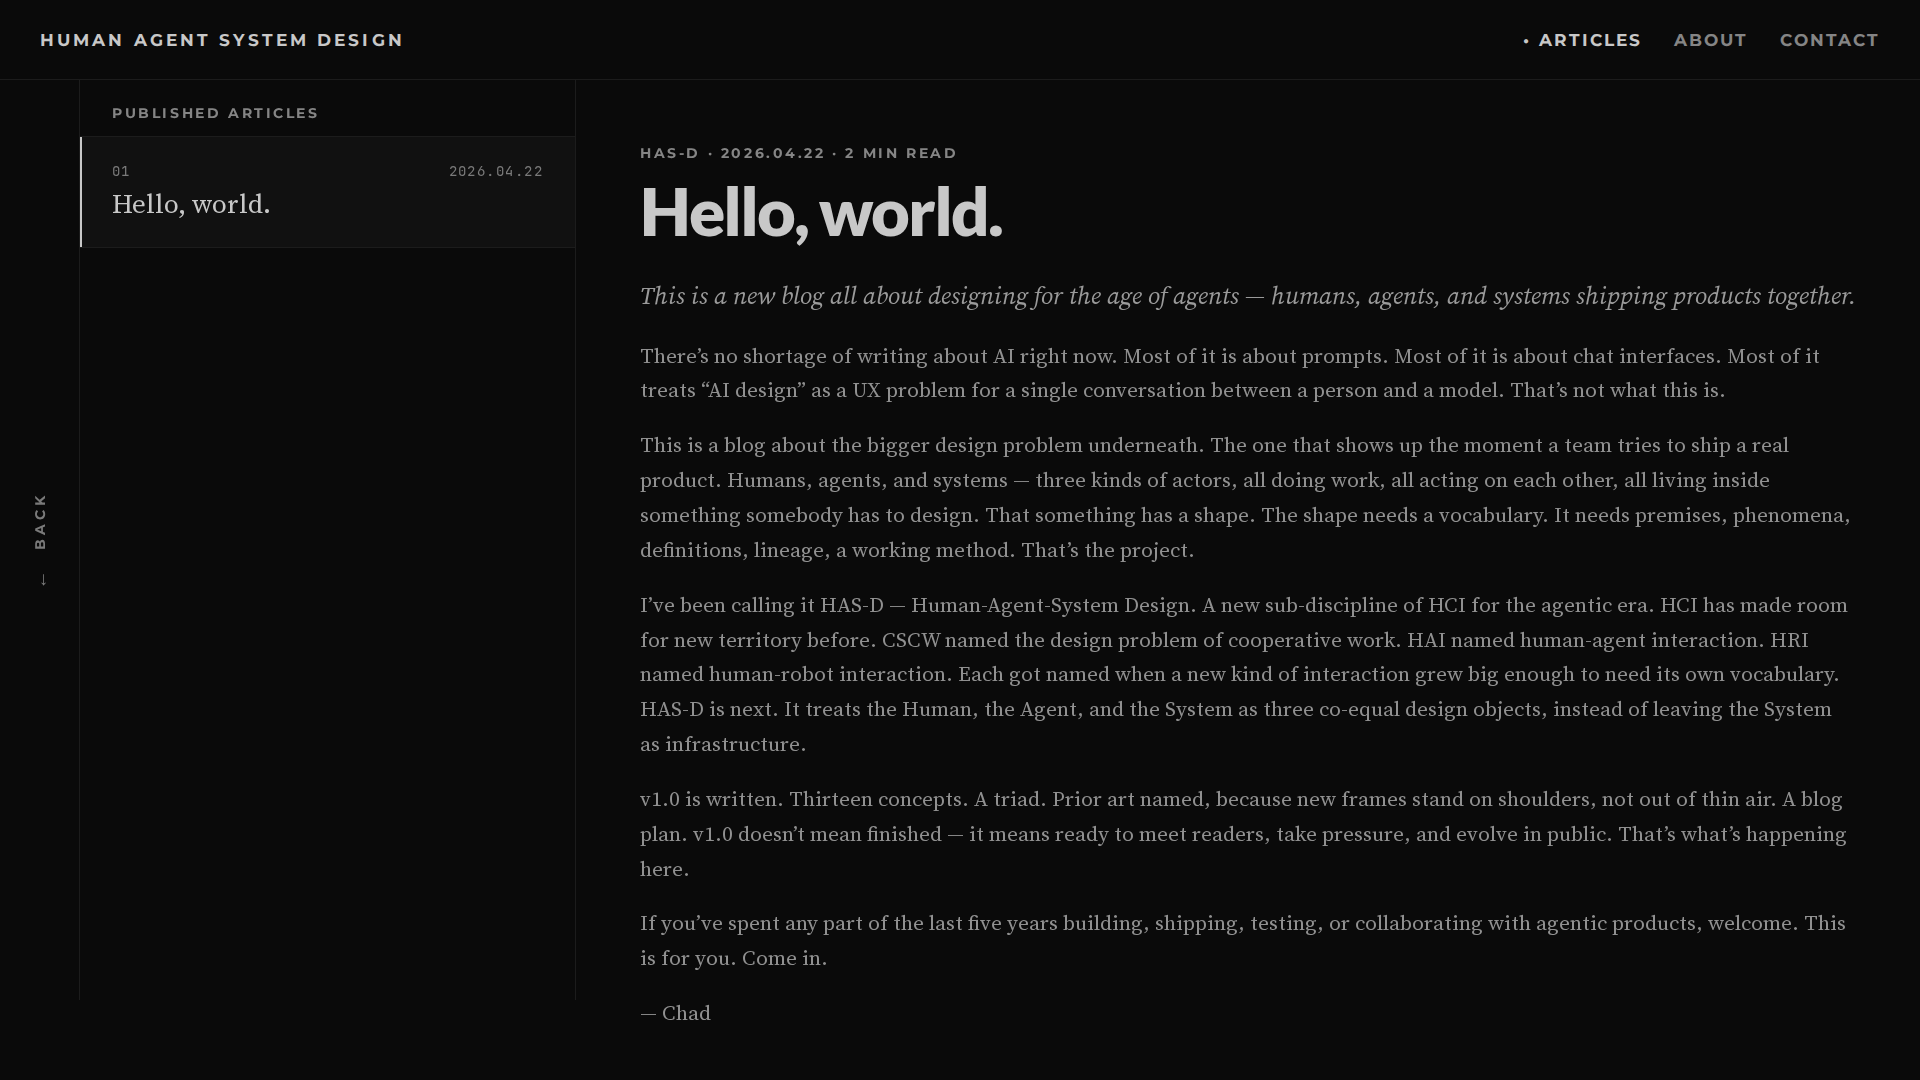
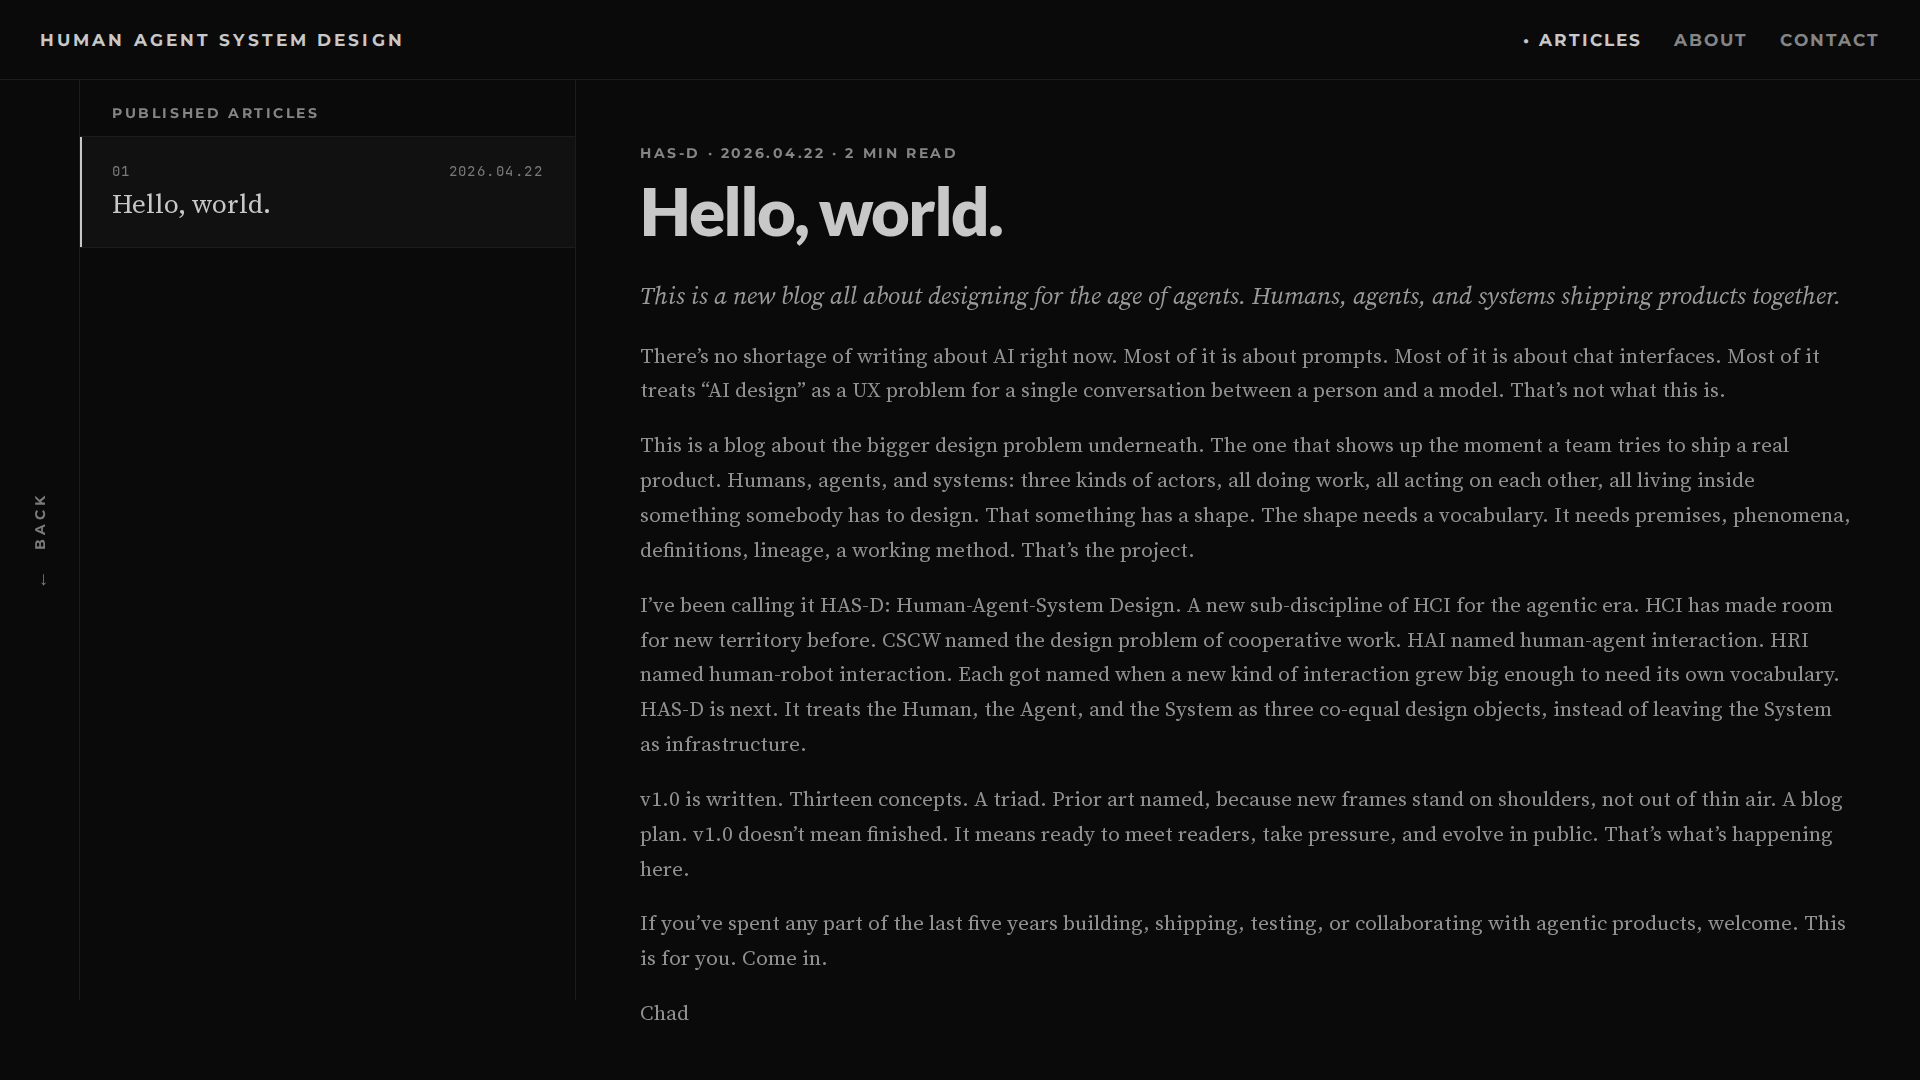
chore(copy): remove em dashes across user-visible copy
- hello world post: em dashes replaced with periods and colons,
  preserving the punchy rhythm. Sign-off is just "Chad".
- default description + about/contact page titles/ledes cleaned up.
- CSS comment em dashes swapped for middle dots or periods.

No behavior changes. Build + typecheck clean. ILI-692 verify spec still
passes (hello world rendering, no-placeholder guard, OG tags).

diff --git a/src/styles/homepage.css b/src/styles/homepage.css
@@ -61,7 +61,7 @@ button { font: inherit; color: inherit; background: none; border: none; cursor: 
   flex: 1 1 auto;
   min-height: 0;
   /* Cap height when closed so residual article content can't stretch the
-     grid row — otherwise hero-inner (height:100%, justify-content:center)
+     grid row. Otherwise hero-inner (height:100%, justify-content:center)
      re-centers into a huge column and appears to slide off-page on close. */
   height: calc(100vh - 160px);
 }
@@ -366,7 +366,7 @@ button { font: inherit; color: inherit; background: none; border: none; cursor: 
 }
 
 /* ═══════════════════════════════════════════════
-   MOBILE — below 900px the grid collapses to a
+   MOBILE. Below 900px the grid collapses to a
    single stacked column and the article reader
    becomes a full-screen overlay.
    ═══════════════════════════════════════════════ */
@@ -401,7 +401,7 @@ button { font: inherit; color: inherit; background: none; border: none; cursor: 
   }
   .stage.open { grid-template-columns: none; }
 
-  /* Reset the desktop document-scroll rules — mobile already page-scrolls */
+  /* Reset the desktop document-scroll rules. Mobile already page-scrolls */
   .stage.open .col-hero,
   .stage.open .col-list {
     position: static;

diff --git a/src/styles/fonts.css b/src/styles/fonts.css
@@ -1,4 +1,4 @@
-/* ── Source Serif 4 — prose body ───────────────────────────── */
+/* ── Source Serif 4 · prose body ───────────────────────────── */
 
 @font-face {
   font-family: 'Source Serif 4';
@@ -32,7 +32,7 @@
   font-display: swap;
 }
 
-/* ── Lato Black — titles ──────────────────────────────────── */
+/* ── Lato Black · titles ──────────────────────────────────── */
 
 @font-face {
   font-family: 'Lato';
@@ -42,7 +42,7 @@
   font-display: swap;
 }
 
-/* ── Montserrat — eyebrows + subtitles ────────────────────── */
+/* ── Montserrat · eyebrows + subtitles ────────────────────── */
 
 @font-face {
   font-family: 'Montserrat';
@@ -60,7 +60,7 @@
   font-display: swap;
 }
 
-/* ── JetBrains Mono — code + system labels ────────────────── */
+/* ── JetBrains Mono · code + system labels ────────────────── */
 
 @font-face {
   font-family: 'JetBrains Mono';

diff --git a/src/content/articles/hello-world.md b/src/content/articles/hello-world.md
@@ -1,19 +1,19 @@
 ---
 title: "Hello, world."
 date: 2026-04-22
-description: "This is a new blog all about designing for the age of agents — humans, agents, and systems shipping products together."
+description: "This is a new blog all about designing for the age of agents. Humans, agents, and systems shipping products together."
 tags: ["HAS-D"]
 draft: false
 ---
 
 There's no shortage of writing about AI right now. Most of it is about prompts. Most of it is about chat interfaces. Most of it treats "AI design" as a UX problem for a single conversation between a person and a model. That's not what this is.
 
-This is a blog about the bigger design problem underneath. The one that shows up the moment a team tries to ship a real product. Humans, agents, and systems — three kinds of actors, all doing work, all acting on each other, all living inside something somebody has to design. That something has a shape. The shape needs a vocabulary. It needs premises, phenomena, definitions, lineage, a working method. That's the project.
+This is a blog about the bigger design problem underneath. The one that shows up the moment a team tries to ship a real product. Humans, agents, and systems: three kinds of actors, all doing work, all acting on each other, all living inside something somebody has to design. That something has a shape. The shape needs a vocabulary. It needs premises, phenomena, definitions, lineage, a working method. That's the project.
 
-I've been calling it HAS-D — Human-Agent-System Design. A new sub-discipline of HCI for the agentic era. HCI has made room for new territory before. CSCW named the design problem of cooperative work. HAI named human-agent interaction. HRI named human-robot interaction. Each got named when a new kind of interaction grew big enough to need its own vocabulary. HAS-D is next. It treats the Human, the Agent, and the System as three co-equal design objects, instead of leaving the System as infrastructure.
+I've been calling it HAS-D: Human-Agent-System Design. A new sub-discipline of HCI for the agentic era. HCI has made room for new territory before. CSCW named the design problem of cooperative work. HAI named human-agent interaction. HRI named human-robot interaction. Each got named when a new kind of interaction grew big enough to need its own vocabulary. HAS-D is next. It treats the Human, the Agent, and the System as three co-equal design objects, instead of leaving the System as infrastructure.
 
-v1.0 is written. Thirteen concepts. A triad. Prior art named, because new frames stand on shoulders, not out of thin air. A blog plan. v1.0 doesn't mean finished — it means ready to meet readers, take pressure, and evolve in public. That's what's happening here.
+v1.0 is written. Thirteen concepts. A triad. Prior art named, because new frames stand on shoulders, not out of thin air. A blog plan. v1.0 doesn't mean finished. It means ready to meet readers, take pressure, and evolve in public. That's what's happening here.
 
 If you've spent any part of the last five years building, shipping, testing, or collaborating with agentic products, welcome. This is for you. Come in.
 
-— Chad
+Chad
